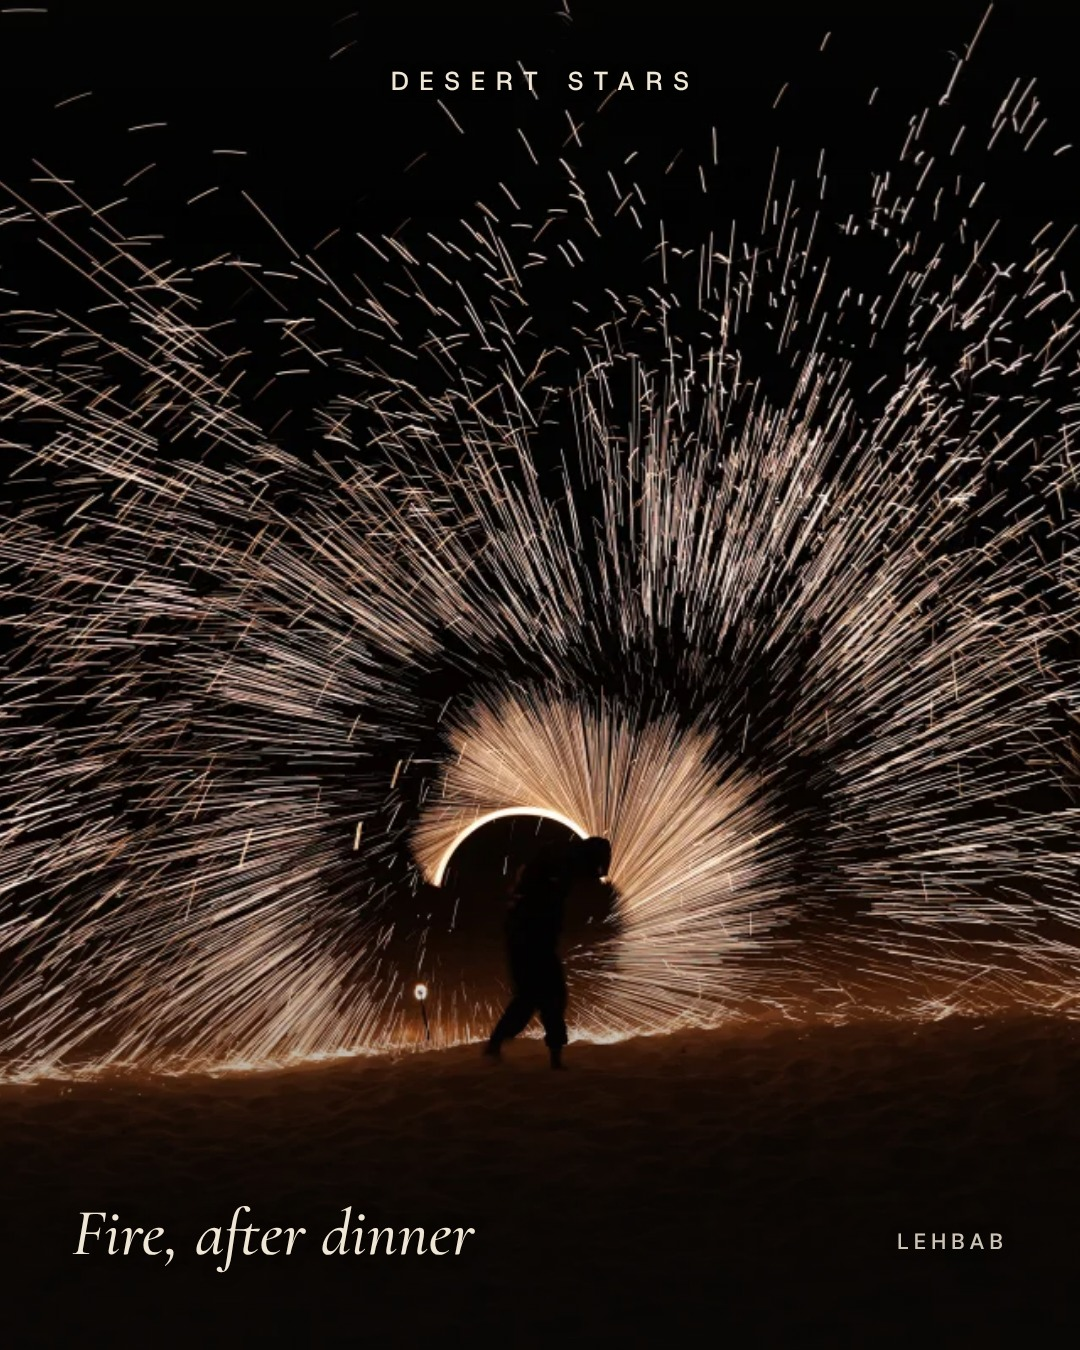
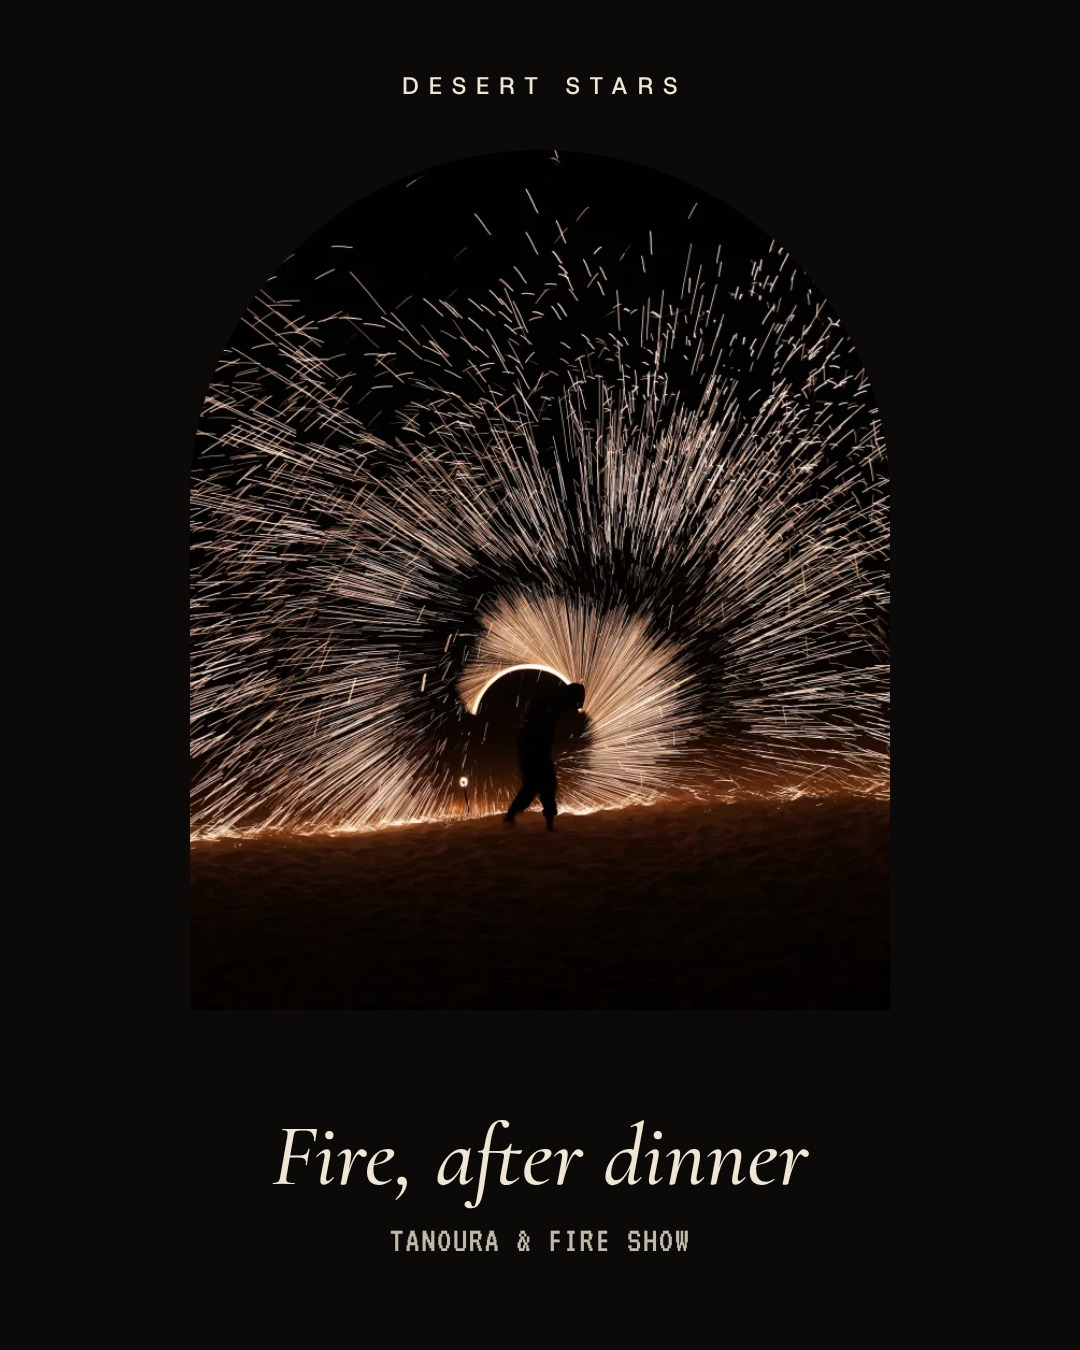
Instagram grid: distinct layout per post
Claude-Session: https://claude.ai/code/session_016tmrtv4VSJkVzpbkbBxgW5

diff --git a/marketing/instagram-launch/captions.md b/marketing/instagram-launch/captions.md
@@ -1,7 +1,7 @@
 # Desert Stars — Instagram 9-grid launch (photo set)
 
 Files: desert-stars-ig-01.jpg … desert-stars-ig-09.jpg (1080 × 1350, 4:5). Grid preview: grid-preview.jpg.
-Style: full-bleed photos only. Small "DESERT STARS" mark at the top, one short italic line and the place at the bottom.
+Style: photo-led, every post a different layout (giant word, framed photo, centred line, timeline, sand panel, stepped edge, italic title, arch window, vertical type).
 The profile grid shows the newest post top-left, so POST IN REVERSE: 09 first, then 08, 07 … 01 last.
 Rows read day → golden hour → night.
 
@@ -12,23 +12,23 @@ Photo credits: 01 (camels), 03 (sunset), 04 (dunes), 06 (camels resting) and 07 
 
 ---
 
-## 09 — Tanoura under the lights (post FIRST)
+## 09 — Tanoura (post FIRST)
 The Tanoura dancer turns under the camp lights, the last show of a Desert Stars evening.
 Evenings from AED 99 · link in bio
 
 ## 08 — Fire, after dinner
 When the grill goes quiet, the fire comes out. Tanoura and fire shows on the premium desert evening.
 
-## 07 — The camp after dark
+## 07 — After dark
 19:00. The lanterns come on. Arabic coffee and dates on arrival, henna and shisha in the majlis, and a live BBQ with vegetarian, vegan and halal dishes.
 
-## 06 — Saddled and waiting
+## 06 — Camel ride
 The camels are ready when you arrive. A camel ride is part of every Desert Stars desert safari.
 
-## 05 — Dunes at sunset
+## 05 — Red dunes
 Dune bashing in a 4x4 as the sand turns red, 30 to 40 minutes in the high dunes.
 
-## 04 — From your door to the dunes
+## 04 — 15:00 to 21:30
 Pick-up 15:00 from your door anywhere in Dubai. Home by 21:30.
 Free cancellation up to 24 hours before.
 
@@ -38,7 +38,7 @@ The moment the desert goes quiet. Sunset over the dunes of Lehbab.
 ## 02 — The falcon, up close
 Meet the falcon, the bird of the Emirates. A falcon photo stop is part of the premium desert evening.
 
-## 01 — Golden hour in Lehbab (post LAST)
+## 01 — Lehbab (post LAST)
 Camels at golden hour on the dunes of Lehbab.
 Desert Stars: desert safaris, dhow cruises and Emirates journeys from Dubai.
 Reserve on WhatsApp +971 52 829 1432 or through the link in bio. ✦
